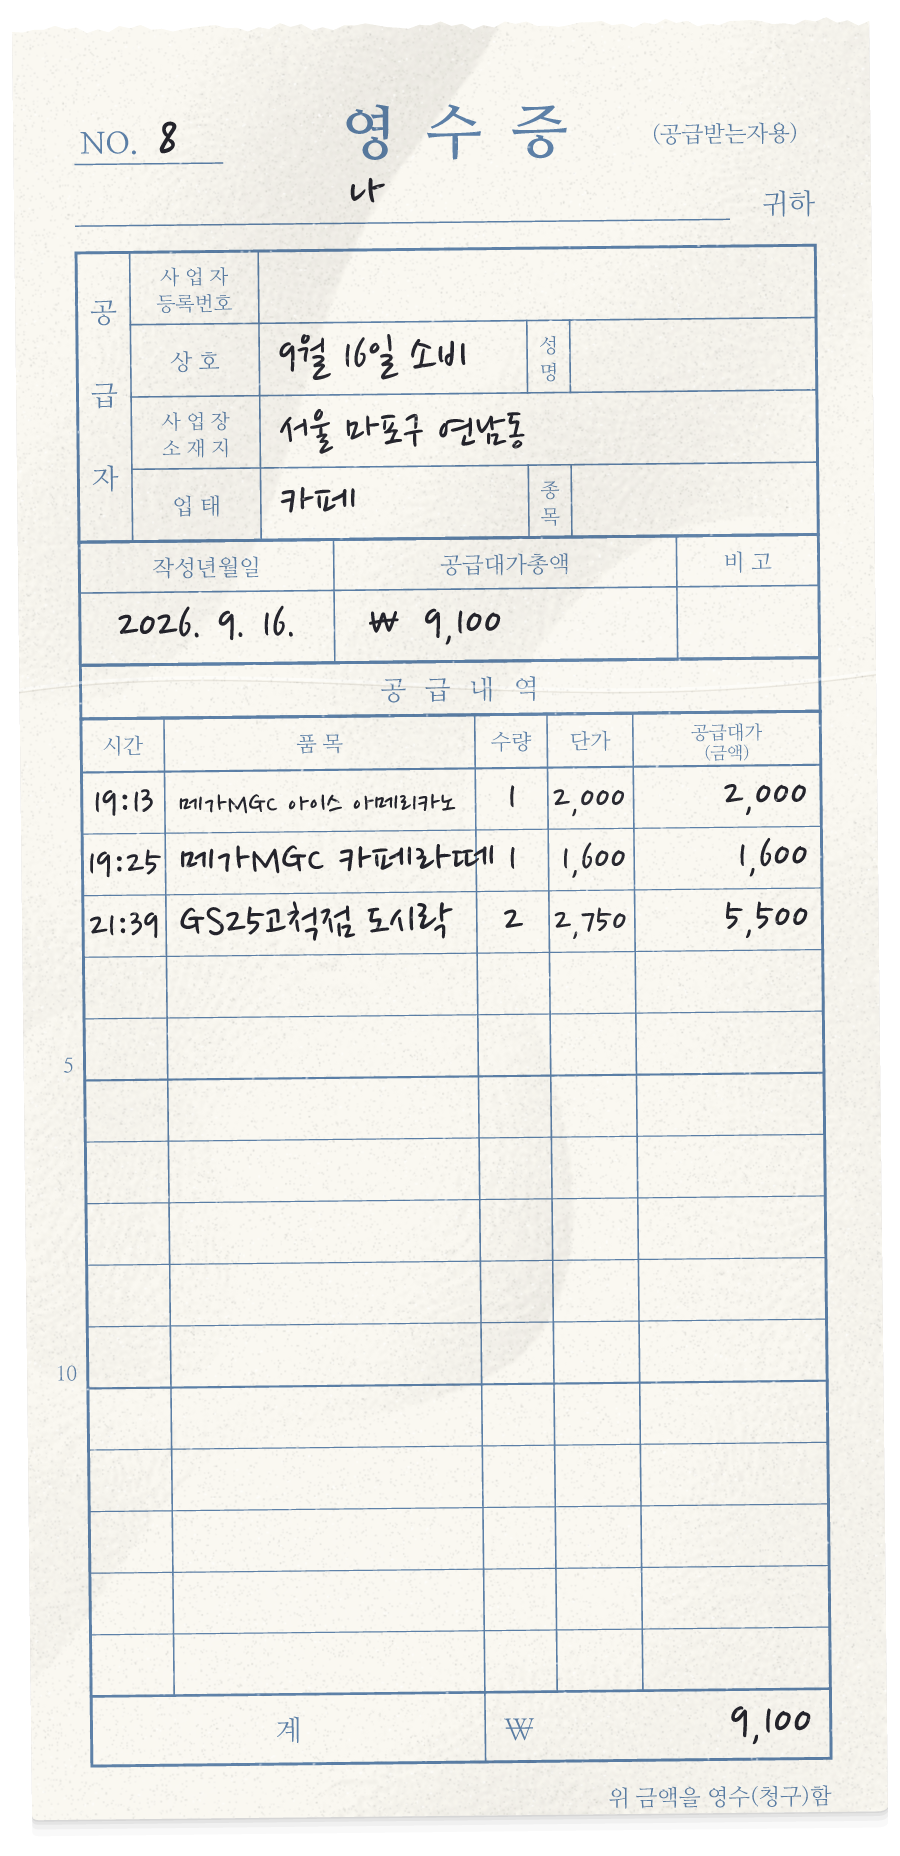
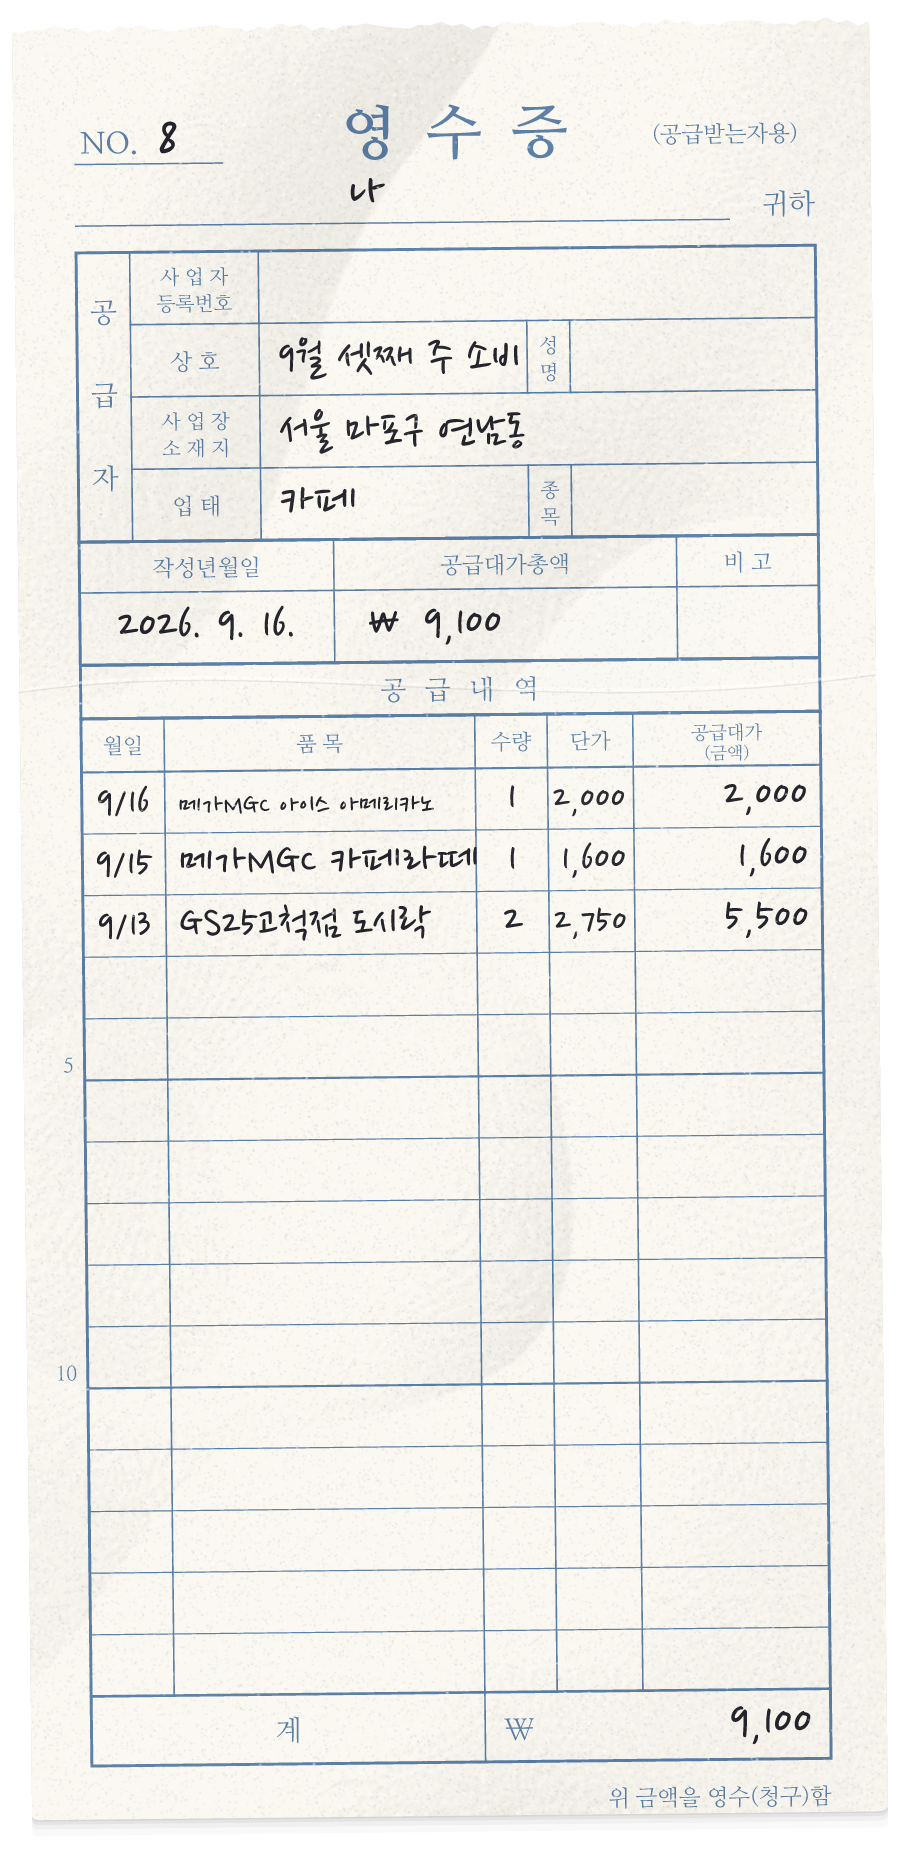
소비: 적는 방법 3가지 + 하루치는 표 첫 칸을 날짜/시간 중에 고르기
- '품목별로 / 총액만 / 하루치 모아서' 고르기 (수동으로도 하루치 영수증을 쓸 수 있게)
- 하루치 모드: 줄마다 가게 이름과 시간(또는 날짜)을 직접 적음, '+ 가게 추가'
- 표 첫 칸 고르기: 시간(같은 날) / 날짜(여러 날). 캡처에서 채우면 날짜가 섞였는지 보고 자동으로 정함
- 상호 칸은 '영수증 이름'이 되고 비우면 '9월 18일 소비'
- 비고 짧게 적기 칸이 옆으로 늘어나던 것 고침

Changed region(s): [[0.2178, 0.4062, 0.56, 0.5312], [0.0933, 0.375, 0.1867, 0.5], [0.3111, 0.1875, 0.56, 0.2188]]

diff --git a/app/src/components/RecordForm.tsx b/app/src/components/RecordForm.tsx
@@ -252,6 +252,23 @@ const emptyFourcut = (): Omit<FourcutRecord, 'id' | 'createdAt'> => ({
   sourceUrl: '',
 });
 
+/** "2026-09-13" → "09.13" */
+const monthDay = (date: string) => {
+  const [, m, d] = date.split('-');
+  return m && d ? `${m}.${d}` : '';
+};
+
+/** "9.13", "09/13", "913" → "2026-09-13" (연도는 기준 날짜에서) */
+function parseMonthDay(text: string, base: string): string | null {
+  const digits = text.replace(/[^0-9]/g, '');
+  if (digits.length < 3 || digits.length > 4) return null;
+  const month = +digits.slice(0, digits.length - 2);
+  const day = +digits.slice(-2);
+  if (month < 1 || month > 12 || day < 1 || day > 31) return null;
+  const year = base.slice(0, 4) || String(new Date().getFullYear());
+  return `${year}-${String(month).padStart(2, '0')}-${String(day).padStart(2, '0')}`;
+}
+
 interface ItemDraft {
   name: string;
   qty: string;
@@ -268,8 +285,15 @@ export function RecordForm({ visible, records = [], initialKind, editing, onClos
   const [movie, setMovie] = useState(emptyMovie);
   const [spending, setSpending] = useState(emptySpending);
   const [items, setItems] = useState<ItemDraft[]>([{ name: '', qty: '1', price: '' }]);
-  // 품목 없이 총액만 적기
-  const [totalOnly, setTotalOnly] = useState(false);
+  /**
+   * 소비를 적는 방법
+   * items: 한 가게에서 산 품목을 줄마다 (기본)
+   * total: 품목 없이 총액만
+   * day: 하루 동안 여러 가게에서 쓴 걸 한 장에 (줄마다 가게·시간)
+   */
+  const [mode, setMode] = useState<'items' | 'total' | 'day'>('items');
+  // 하루치 모아 적을 때 표 첫 칸을 날짜로 할지 시간으로 할지
+  const [listBy, setListBy] = useState<'date' | 'time'>('time');
   const [onlyAmount, setOnlyAmount] = useState('');
   const [travel, setTravel] = useState(emptyTravel);
   const [fourcut, setFourcut] = useState(emptyFourcut);
@@ -330,8 +354,9 @@ export function RecordForm({ visible, records = [], initialKind, editing, onClos
       case 'spending': {
         setSpending({ date: rest.date, store: rest.store, category: rest.category, address: rest.address, memo: rest.memo, theme: rest.theme });
         // 품목 이름 없이 금액만 있는 기록은 "총액만" 모드로 연다
-        const onlyOne = rest.items.length === 1 && !rest.items[0].name.trim();
-        setTotalOnly(onlyOne);
+        const onlyOne = rest.items.length === 1 && !rest.items[0].name.trim() && !rest.items[0].store;
+        setMode(rest.items.some((it) => it.store?.trim()) ? 'day' : onlyOne ? 'total' : 'items');
+        setListBy(rest.listBy ?? (new Set(rest.items.map((it) => it.date ?? rest.date)).size > 1 ? 'date' : 'time'));
         setOnlyAmount(onlyOne ? String(rest.items[0].price) : '');
         setItems(rest.items.map((it) => ({ name: it.name, qty: String(it.qty), price: String(it.price) })));
         break;
@@ -368,7 +393,8 @@ export function RecordForm({ visible, records = [], initialKind, editing, onClos
     setMovie(emptyMovie());
     setSpending(emptySpending());
     setItems([{ name: '', qty: '1', price: '' }]);
-    setTotalOnly(false);
+    setMode('items');
+    setListBy('time');
     setOnlyAmount('');
     setError('');
     setSearching(false);
@@ -397,18 +423,16 @@ export function RecordForm({ visible, records = [], initialKind, editing, onClos
       if (!movie.title.trim()) return setError('영화 제목을 적어주세요.');
       record = { ...base, ...movie } as MovieRecord;
     } else if (kind === 'spending') {
-      const fromShot = items.some((it) => it.store?.trim());
-      if (!spending.store.trim() && !fromShot) return setError('어디서 썼는지(상호)를 적어주세요.');
-      if (totalOnly) {
+      if (!spending.store.trim() && mode !== 'day') return setError('어디서 썼는지(상호)를 적어주세요.');
+      if (mode === 'total') {
         if (!onlyTotalValue) return setError('쓴 금액을 적어주세요.');
         record = { ...base, kind: 'spending', ...spending, items: [{ name: '', qty: 1, price: onlyTotalValue }] } as SpendingRecord;
       } else {
         if (!parsedItems.length) return setError('품목을 하나 이상 적어주세요.');
-        const stores = [...new Set(parsedItems.map((it) => it.store?.trim()).filter(Boolean))] as string[];
         // 여러 가게를 한 장에 적을 땐 상호 칸을 "9월 18일 소비" 처럼 (직접 적었으면 그대로)
         const [, m, d] = spending.date.split('-');
-        const store = spending.store.trim() || (stores.length > 1 ? `${+m}월 ${+d}일 소비` : '');
-        record = { ...base, kind: 'spending', ...spending, store, items: parsedItems } as SpendingRecord;
+        const store = spending.store.trim() || (mode === 'day' ? `${+m}월 ${+d}일 소비` : '');
+        record = { ...base, kind: 'spending', ...spending, store, items: parsedItems, ...(mode === 'day' ? { listBy } : {}) } as SpendingRecord;
       }
     } else if (kind === 'travel') {
       if (!travel.from.trim() || !travel.to.trim()) return setError('출발지와 도착지를 골라주세요. (예: 인천 → 도쿄)');
@@ -647,7 +671,8 @@ export function RecordForm({ visible, records = [], initialKind, editing, onClos
                   onFillMany={(list) => {
                     setSmsOpen(false);
                     // 한 장에 여러 줄로 (품목은 비워두고 직접 적게)
-                    setTotalOnly(false);
+                    setMode('day');
+                    setListBy(new Set(list.map((pay) => pay.date)).size > 1 ? 'date' : 'time');
                     setSpending((sp) => ({ ...sp, date: list[0]?.date ?? sp.date }));
                     setItems(
                       list.map((pay) => ({
@@ -663,7 +688,7 @@ export function RecordForm({ visible, records = [], initialKind, editing, onClos
                   onFill={(pay) => {
                     setSmsOpen(false);
                     setSpending((sp) => ({ ...sp, store: pay.store || sp.store, date: pay.date ?? sp.date }));
-                    if (totalOnly) {
+                    if (mode === 'total') {
                       setOnlyAmount(String(pay.amount));
                       return;
                     }
@@ -674,10 +699,10 @@ export function RecordForm({ visible, records = [], initialKind, editing, onClos
                 />
                 <Row>
                   <Field
-                    label={items.some((it) => it.store) ? '영수증 제목 (상호)' : '어디서? (상호) *'}
+                    label={mode === 'day' ? '영수증 이름' : '어디서? (상호) *'}
                     value={spending.store}
                     onChange={(v) => setSpending({ ...spending, store: v })}
-                    placeholder={items.some((it) => it.store) ? '9월 18일 소비' : '달밤커피'}
+                    placeholder={mode === 'day' ? '비우면 9월 18일 소비' : '달밤커피'}
                   />
                   <Field label="종류" value={spending.category} onChange={(v) => setSpending({ ...spending, category: v })} placeholder="카페" />
                 </Row>
@@ -711,34 +736,80 @@ export function RecordForm({ visible, records = [], initialKind, editing, onClos
                   })}
                 </View>
                 {!stickerOf(spending.memo) && (
-                  <Field label="또는 짧게 적기" value={spending.memo} onChange={(v) => setSpending({ ...spending, memo: v })} placeholder="선물용" />
+                  <Row>
+                    <Field label="또는 짧게 적기" value={spending.memo} onChange={(v) => setSpending({ ...spending, memo: v })} placeholder="선물용" />
+                  </Row>
                 )}
+                <Label text="어떻게 적을까요?" />
                 <View style={styles.segment}>
-                  {[
-                    [false, '품목별로 적기'],
-                    [true, '총액만 적기'],
-                  ].map(([key, text]) => (
-                    <Pressable key={String(key)} onPress={() => setTotalOnly(key as boolean)} style={[styles.seg, totalOnly === key && styles.segOn]}>
-                      <Text style={[styles.segText, totalOnly === key && styles.segTextOn]}>{text as string}</Text>
+                  {(
+                    [
+                      ['items', '품목별로'],
+                      ['total', '총액만'],
+                      ['day', '하루치 모아서'],
+                    ] as const
+                  ).map(([key, text]) => (
+                    <Pressable
+                      key={key}
+                      onPress={() => {
+                        setMode(key);
+                        // 하루치로 바꾸면 줄마다 가게를 적을 수 있게 빈 칸을 준다
+                        if (key === 'day') setItems((all) => all.map((it) => ({ ...it, store: it.store ?? '' })));
+                      }}
+                      style={[styles.seg, mode === key && styles.segOn]}>
+                      <Text style={[styles.segText, mode === key && styles.segTextOn]}>{text}</Text>
                     </Pressable>
                   ))}
                 </View>
-                {totalOnly ? (
+                {mode === 'day' && (
+                  <View style={styles.byRow}>
+                    <Text style={styles.byLabel}>표 첫 칸</Text>
+                    {(
+                      [
+                        ['time', '시간 (같은 날)'],
+                        ['date', '날짜 (여러 날)'],
+                      ] as const
+                    ).map(([key, text]) => (
+                      <Pressable key={key} onPress={() => setListBy(key)} style={[styles.frameChip, listBy === key && styles.frameChipOn]}>
+                        <Text style={styles.segText}>{text}</Text>
+                      </Pressable>
+                    ))}
+                  </View>
+                )}
+                {mode === 'total' ? (
                   <Row>
                     <Field label="얼마 썼나요? *" value={onlyAmount} onChange={(v) => setOnlyAmount(v.replace(/[^0-9]/g, ''))} keyboardType="number-pad" placeholder="12500" />
                   </Row>
                 ) : (
-                  <Label text="품목" />
+                  <Label text={mode === 'day' ? '어디서 뭘 샀나요?' : '품목'} />
                 )}
-                {!totalOnly &&
+                {mode !== 'total' &&
                   items.map((it, i) => (
-                  <View key={i} style={it.store ? styles.itemBox : undefined}>
-                  {!!it.store && (
+                  <View key={i} style={mode === 'day' ? styles.itemBox : undefined}>
+                  {mode === 'day' && (
                     <View style={styles.itemHead}>
-                      <Text style={styles.itemStore} numberOfLines={1}>
-                        {it.store}
-                      </Text>
-                      {!!it.date && <Text style={styles.itemDate}>{it.date.replace(/-/g, '.').slice(2)}</Text>}
+                      <TextInput
+                        inputAccessoryViewID={KEYBOARD_DONE_ID}
+                        style={[styles.input, { flex: 3, backgroundColor: '#fff' }]}
+                        value={it.store ?? ''}
+                        placeholder="가게 이름"
+                        placeholderTextColor={COLORS.placeholder}
+                        onChangeText={(v) => setItems(items.map((x, j) => (j === i ? { ...x, store: v } : x)))}
+                      />
+                      <TextInput
+                        inputAccessoryViewID={KEYBOARD_DONE_ID}
+                        style={[styles.input, { flex: 1.4, textAlign: 'center', backgroundColor: '#fff' }]}
+                        value={listBy === 'time' ? (it.time ?? '') : monthDay(it.date ?? spending.date)}
+                        placeholder={listBy === 'time' ? '19:13' : '09.13'}
+                        placeholderTextColor={COLORS.placeholder}
+                        onChangeText={(v) =>
+                          setItems(
+                            items.map((x, j) =>
+                              j === i ? (listBy === 'time' ? { ...x, time: v } : { ...x, date: parseMonthDay(v, spending.date) ?? x.date }) : x,
+                            ),
+                          )
+                        }
+                      />
                     </View>
                   )}
                   <View style={styles.itemRow}>
@@ -746,7 +817,7 @@ export function RecordForm({ visible, records = [], initialKind, editing, onClos
                       inputAccessoryViewID={KEYBOARD_DONE_ID}
                       style={[styles.input, { flex: 3 }]}
                       value={it.name}
-                      placeholder="아이스 아메리카노"
+                      placeholder={mode === 'day' ? '품목 (몰라도 비워도 돼요)' : '아이스 아메리카노'}
                       placeholderTextColor={COLORS.placeholder}
                       onChangeText={(v) => setItems(items.map((x, j) => (j === i ? { ...x, name: v } : x)))}
                     />
@@ -772,15 +843,17 @@ export function RecordForm({ visible, records = [], initialKind, editing, onClos
                   </View>
                   </View>
                 ))}
-                {!totalOnly && items.length < 15 && (
-                  <Pressable onPress={() => setItems([...items, { name: '', qty: '1', price: '' }])} style={styles.addItem}>
-                    <Text style={styles.addItemText}>+ 품목 추가</Text>
+                {mode !== 'total' && items.length < 15 && (
+                  <Pressable onPress={() => setItems([...items, { name: '', qty: '1', price: '', ...(mode === 'day' ? { store: '' } : {}) }])} style={styles.addItem}>
+                    <Text style={styles.addItemText}>{mode === 'day' ? '+ 가게 추가' : '+ 품목 추가'}</Text>
                   </Pressable>
                 )}
-                {items.some((it) => it.store) && (
-                  <Text style={styles.itemHint}>캡처에서 가져온 줄이에요. 품목·수량·단가를 적으면 영수증에 가게와 함께 찍혀요.</Text>
+                {mode === 'day' && (
+                  <Text style={styles.itemHint}>
+                    {listBy === 'time' ? '같은 날 여러 곳에서 쓴 걸 한 장에 적어요. 표 첫 칸에 시간이 찍혀요.' : '날짜가 다른 소비도 한 장에 적어요. 표 첫 칸에 날짜가 찍혀요.'}
+                  </Text>
                 )}
-                <Text style={styles.total}>합계 ₩ {won(totalOnly ? onlyTotalValue : total)}</Text>
+                <Text style={styles.total}>합계 ₩ {won(mode === 'total' ? onlyTotalValue : total)}</Text>
                 <ThemePicker label="영수증 종이" base="spending" value={spending.theme} onChange={(theme) => setSpending((sp) => ({ ...sp, theme }))} />
               </>
             )}
@@ -1396,6 +1469,8 @@ const styles = StyleSheet.create({
   itemHead: { flexDirection: 'row', alignItems: 'center', justifyContent: 'space-between', gap: 8 },
   itemStore: { flex: 1, color: COLORS.ink, fontSize: 14, fontFamily: FONTS.sansBold },
   itemDate: { color: COLORS.sub, fontSize: 12, fontFamily: FONTS.sans },
+  byRow: { flexDirection: 'row', alignItems: 'center', gap: 8 },
+  byLabel: { color: COLORS.sub, fontSize: 12, fontFamily: FONTS.sansBold },
   itemHint: { color: COLORS.sub, fontSize: 12, fontFamily: FONTS.sans, lineHeight: 18 },
   remove: { fontSize: 22, color: COLORS.sub, paddingHorizontal: 4 },
   addItem: { alignSelf: 'flex-start', paddingVertical: 6 },

diff --git a/app/src/templates/SpendingReceipt.tsx b/app/src/templates/SpendingReceipt.tsx
@@ -91,7 +91,10 @@ export function SpendingReceipt({ record: r, width }: { record: SpendingRecord; 
 
   const items = r.items.filter((it) => it.name.trim() || it.price > 0).slice(0, MAX_ROWS);
   // 여러 가게를 한 장에 적은 기록: 첫 칸을 월일 대신 시간으로 쓰고, 품목 칸에 가게 이름을 같이 적는다
-  const multi = new Set(items.map((it) => it.store?.trim()).filter(Boolean)).size > 1;
+  const multi = items.some((it) => it.store?.trim());
+  // 첫 칸: 고른 대로, 안 골랐으면 날짜가 다 같을 때만 시간
+  const sameDay = new Set(items.map((it) => it.date ?? r.date)).size <= 1;
+  const byTime = multi && (r.listBy ? r.listBy === 'time' : sameDay);
   const total = items.reduce((sum, it) => sum + it.qty * it.price, 0);
   const [, m, d] = r.date.split('-').map((v) => parseInt(v, 10));
   const md = m && d ? `${m}/${d}` : '';
@@ -157,7 +160,7 @@ export function SpendingReceipt({ record: r, width }: { record: SpendingRecord; 
           <Text x={(L + R) / 2 + 7} y={gTop + 28} fontSize={20} textAnchor="middle" letterSpacing={14} fill={INK} fontFamily={FONTS.serif}>
             공급내역
           </Text>
-          {label((cols[0] + cols[1]) / 2, hTop + 26, multi ? '시간' : '월일', 16)}
+          {label((cols[0] + cols[1]) / 2, hTop + 26, byTime ? '시간' : '월일', 16)}
           {label((cols[1] + cols[2]) / 2, hTop + 26, '품      목', 16)}
           {label((cols[2] + cols[3]) / 2, hTop + 26, '수량', 16)}
           {label((cols[3] + cols[4]) / 2, hTop + 26, '단가', 16)}
@@ -196,7 +199,9 @@ export function SpendingReceipt({ record: r, width }: { record: SpendingRecord; 
             const y = hBot + rowH * (i + 1) - 12;
             // 총액만 적은 기록: 품목 칸은 비우고 금액만 적는다
             const onlyTotal = !it.name.trim() && !it.store?.trim();
-            const when = multi ? (it.time ?? '') : md;
+            const itemDate = it.date ?? r.date;
+            const [, im, id] = itemDate.split('-');
+            const when = byTime ? (it.time ?? '') : multi ? `${+im}/${+id}` : md;
             const what = multi ? [it.store?.trim(), it.name.trim()].filter(Boolean).join(' ') : it.name;
             return (
               <G key={i}>

diff --git a/design/tools/preview/samples.js b/design/tools/preview/samples.js
@@ -91,7 +91,7 @@ module.exports = () => {
     { name: '영화_티켓', record: movie },
     { name: '영화_티켓_흰색', record: { ...movie, id: 'sample-movie-white', paper: 'white' } },
     { name: '소비_영수증', record: spending },
-    { name: '소비_여러곳', record: { ...spending, id: 'sample-spending-multi', store: '9월 16일 소비', date: '2026-09-16', memo: '', items: [
+    { name: '소비_여러곳', record: { ...spending, id: 'sample-spending-multi', store: '9월 셋째 주 소비', listBy: 'date', date: '2026-09-16', memo: '', items: [
       { name: '아이스 아메리카노', qty: 1, price: 2000, store: '메가MGC', date: '2026-09-16', time: '19:13' },
       { name: '카페라떼', qty: 1, price: 1600, store: '메가MGC', date: '2026-09-15', time: '19:25' },
       { name: '도시락', qty: 2, price: 2750, store: 'GS25고척점', date: '2026-09-13', time: '21:39' } ] } },

diff --git a/app/src/types.ts b/app/src/types.ts
@@ -58,6 +58,8 @@ export interface SpendingRecord extends BaseRecord {
   items: SpendingItem[];
   memo: string;
   theme?: PaperTheme; // 없으면 기본 간이영수증
+  /** 여러 가게를 한 장에 적을 때 표 첫 칸 (없으면 날짜가 다 같으면 시간, 다르면 날짜) */
+  listBy?: 'date' | 'time';
 }
 
 /** 유료 영수증 테마 (종이·무늬만 바뀜) */
